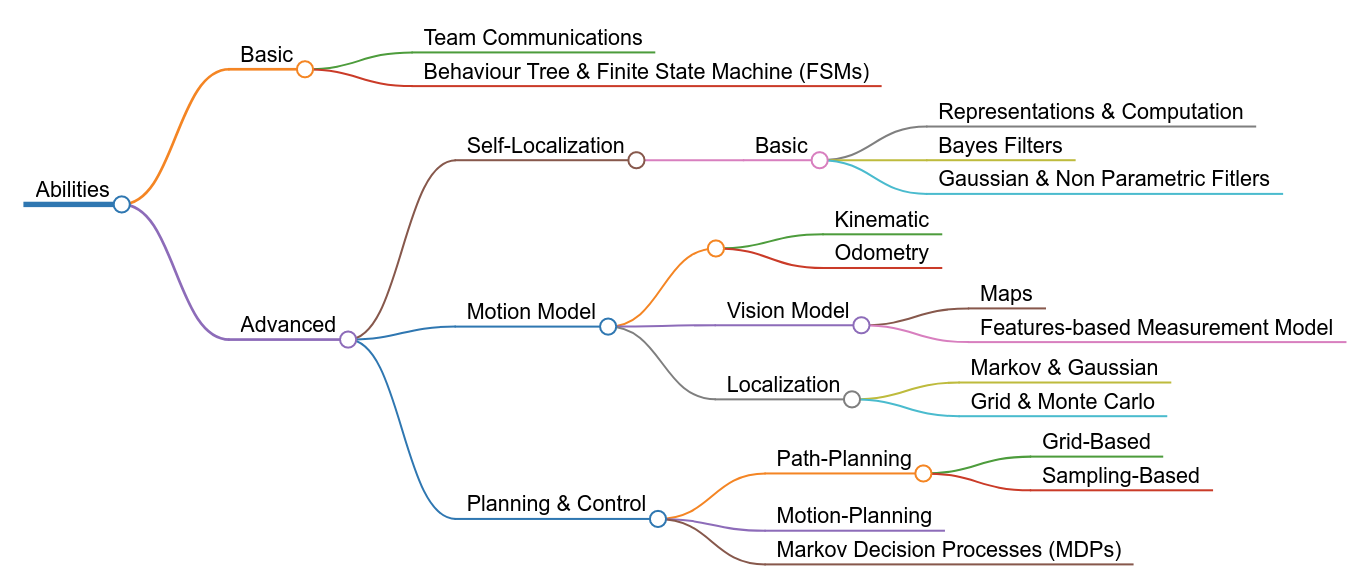
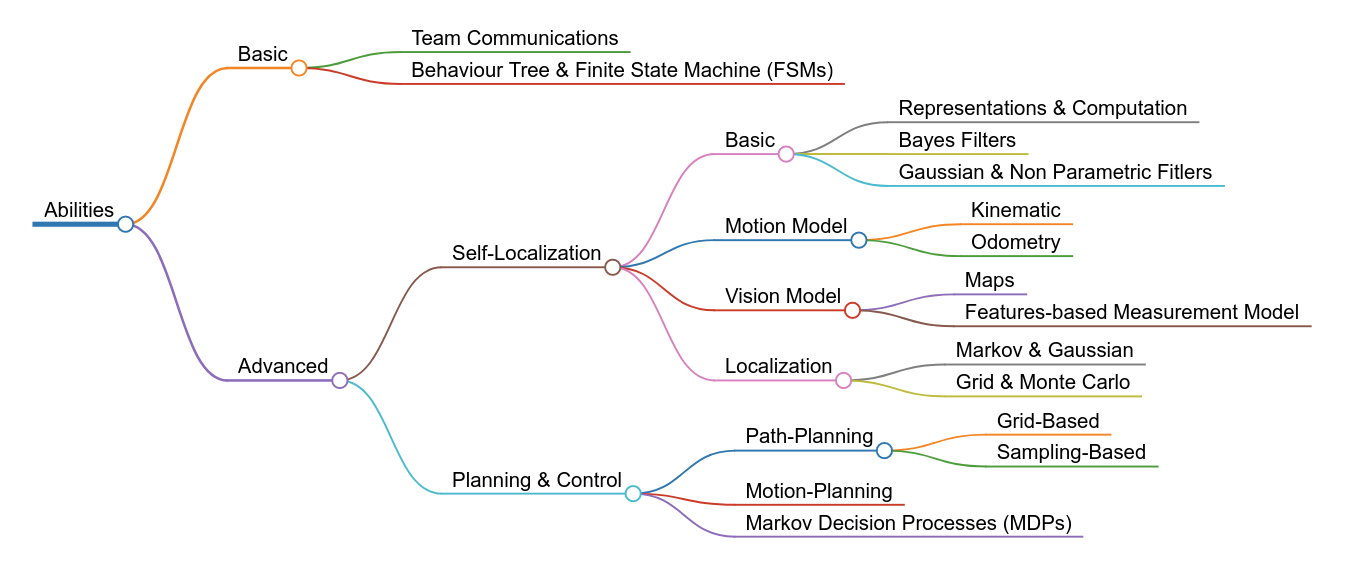
fix mindmap

diff --git a/markmaps/abilities-map.md b/markmaps/abilities-map.md
@@ -10,7 +10,7 @@
 - Representations & Computation
 - Bayes Filters
 - Gaussian & Non Parametric Fitlers
-### Motion Model
+#### Motion Model
 - Kinematic
 - Odometry
 #### Vision Model
